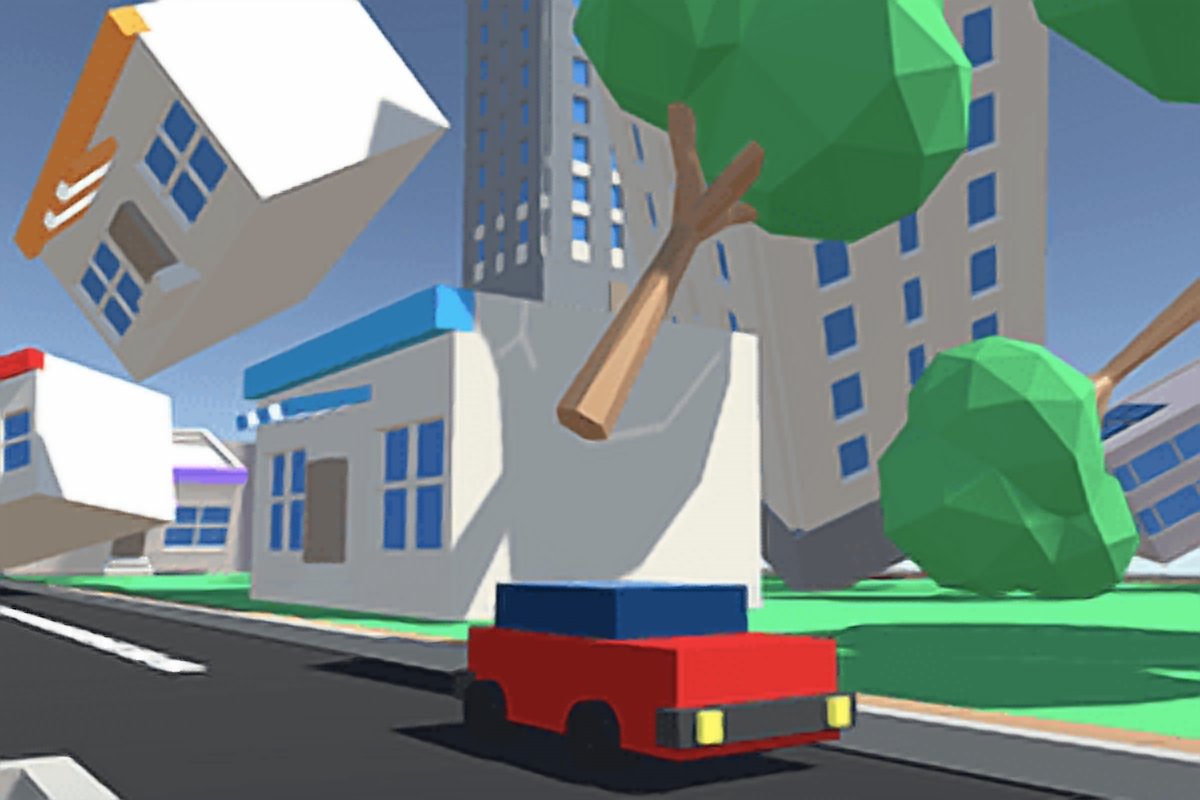
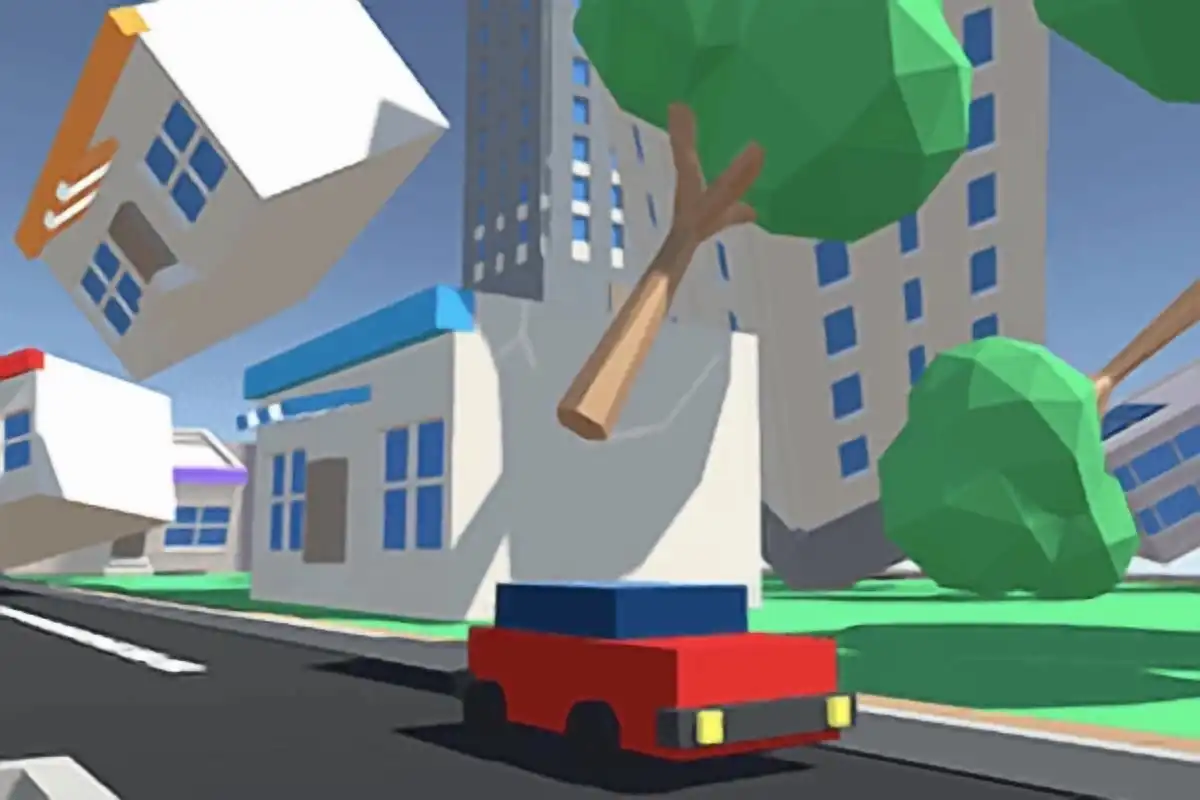
⚡: Performance Optimizations
- Compressed images
- Created mobile image swap for large images
- Added accessibility features

diff --git a/src/components/ThemeButton.tsx b/src/components/ThemeButton.tsx
@@ -21,12 +21,13 @@ export default function ThemeButton() {
   return (
     <button
       class="flex items-center self-center justify-evenly p-2 gap-x-1.5 rounded-md w-10 h-10 shadow-sm  border border-solid border-[#ffffff29] hover:bg-gray-50 bg-[#805ad5] dark:bg-[#f6ad54]"
+      aria-label="Toggle Dark Mode"
       onClick={toggleTheme}
     >
       {theme() === "light" ? (
-        <img src="moon.svg" class=" w-5 h-5 m-2 self-center invert" />
+        <img src="moon.svg" alt="moon-icon" class=" w-5 h-5 m-2 self-center invert" />
       ) : (
-        <img src="sun.svg" class=" w-5 h-5 m-2 self-center " />
+        <img src="sun.svg" alt="sun-icon" class=" w-5 h-5 m-2 self-center " />
       )}
     </button>
   );

diff --git a/src/components/MobileMenu.tsx b/src/components/MobileMenu.tsx
@@ -30,9 +30,10 @@ export default function Example() {
         class={`inline-flex justify-center gap-x-1.5 rounded-md w-10 h-10 dark:bg-[#ffffff16] border border-solid border-[#e2e8f0] dark:border-[#ffffff29] hover:bg-gray-50 ${classNames(
           isOpen() ? "z-20" : "z-0"
         )}`}
+        aria-label="Menu"
         onClick={toggleMenu}
       >
-        <img src="menu.svg" class=" w-5 h-5 m-2 self-center dark:invert" />
+        <img src="menu.svg" alt="menu" class=" w-5 h-5 m-2 self-center dark:invert" />
       </button>
 
       <div
